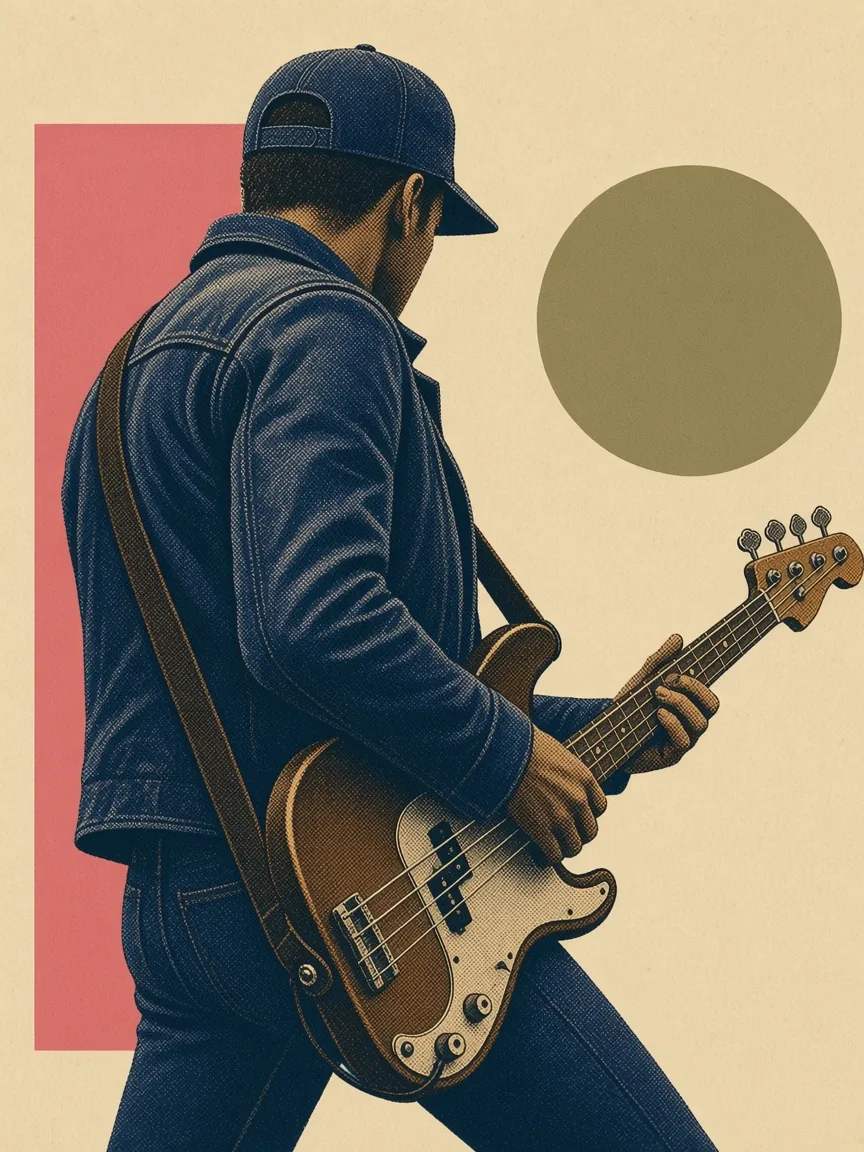
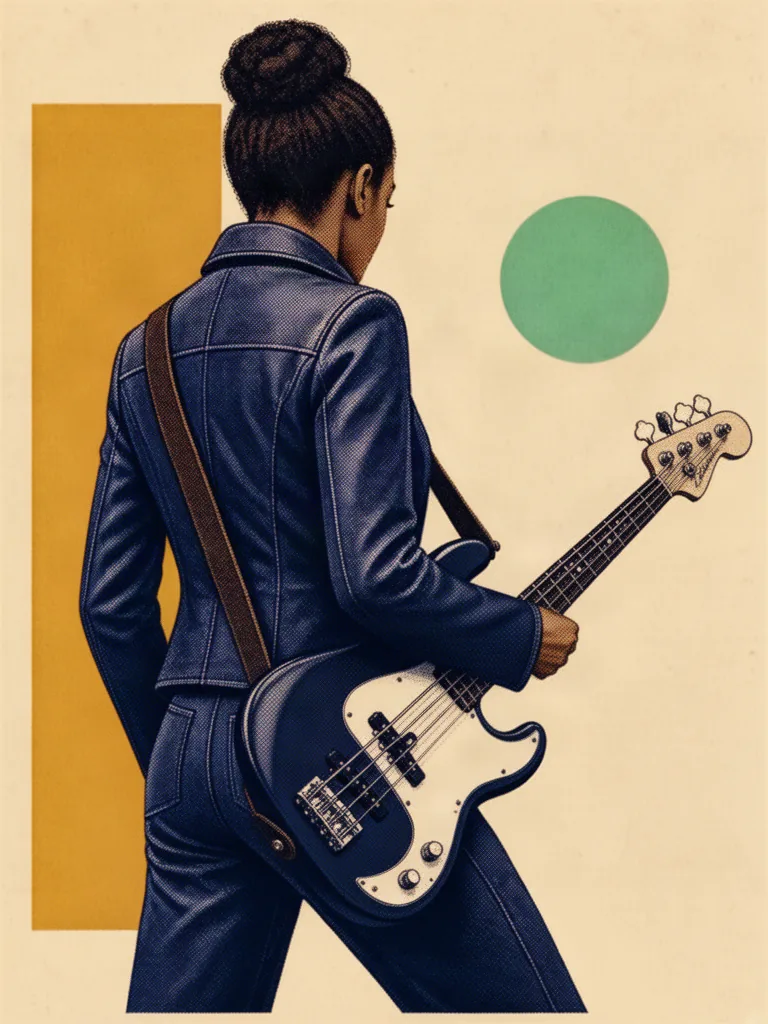
Publie le client de Charts.

diff --git a/prototypes/booster.html b/prototypes/booster.html
@@ -2169,7 +2169,7 @@ function renderCard(card, opts={}){
   const cls = `card r${tier.rank}${paper?" paper":""}${diamant?" diamant":""}${opts.zoomable===false?"":" zoomable"}`;
   const info = `${fam.label} · ${instrumentLabel(card)} · ${group}`;
   return `<div class="${cls}" tabindex="${opts.zoomable===false?"-1":"0"}" data-idx="${opts.idx ?? ""}">
-    <div class="art"><img src="../out/illustrations/webp/${esc(card.job)}.webp?v=3" alt="" loading="lazy" onerror="this.onerror=function(){this.onerror=null;var m=this.src.replace('_x.webp','_m.webp');if(m!==this.src)this.src=m;};var s=this.src,n=s.indexOf('_B_')>=0?s.replace('_B_','_A_'):s.replace('_A_','_B_');if(n!==s)this.src=n;else{this.onerror=null;var m=s.replace('_x.webp','_m.webp');if(m!==s)this.src=m;}"></div>
+    <div class="art"><img src="../out/illustrations/webp/${esc(card.job)}.webp?v=5" alt="" loading="lazy" onerror="this.onerror=function(){this.onerror=null;var m=this.src.replace('_x.webp','_m.webp');if(m!==this.src)this.src=m;};var s=this.src,n=s.indexOf('_B_')>=0?s.replace('_B_','_A_'):s.replace('_A_','_B_');if(n!==s)this.src=n;else{this.onerror=null;var m=s.replace('_x.webp','_m.webp');if(m!==s)this.src=m;}"></div>
     ${diamant ? `<div class="title"><div class="myth-name" style="font-size:${mythName}px">${esc(card.name)}</div></div>` : ""}
     <div class="band" style="${bandStyle}">
       <div class="accent" style="background:${fam.a1}"></div>
@@ -4112,7 +4112,7 @@ function preload(cards){
   return Promise.all(cards.map(c => new Promise(res => {
     const img = new Image();
     img.onload = img.onerror = res;
-    img.src = `../out/illustrations/webp/${c.job}.webp?v=3`;
+    img.src = `../out/illustrations/webp/${c.job}.webp?v=5`;
     if(img.complete) res();
   })));
 }

diff --git a/prototypes/cartes.html b/prototypes/cartes.html
@@ -303,7 +303,7 @@ function renderCard(card, opts={}){
   const mythName = n > 16 ? 22 : n > 13 ? 26 : n > 10 ? 30 : 34;
   return `<div class="${cls}" tabindex="${opts.zoomable===false?"-1":"0"}" data-name="${card.name}">
     <div class="art">
-      <img src="../out/illustrations/webp/${card.job}.webp?v=3" alt="" onerror="this.onerror=function(){this.onerror=null;var m=this.src.replace('_x.webp','_m.webp');if(m!==this.src)this.src=m;};var s=this.src,n=s.indexOf('_B_')>=0?s.replace('_B_','_A_'):s.replace('_A_','_B_');if(n!==s)this.src=n;else{this.onerror=null;var m=s.replace('_x.webp','_m.webp');if(m!==s)this.src=m;}">
+      <img src="../out/illustrations/webp/${card.job}.webp?v=5" alt="" onerror="this.onerror=function(){this.onerror=null;var m=this.src.replace('_x.webp','_m.webp');if(m!==this.src)this.src=m;};var s=this.src,n=s.indexOf('_B_')>=0?s.replace('_B_','_A_'):s.replace('_A_','_B_');if(n!==s)this.src=n;else{this.onerror=null;var m=s.replace('_x.webp','_m.webp');if(m!==s)this.src=m;}">
     </div>
     ${mythique ? `<div class="title"><div class="myth-name" style="font-size:${mythName}px">${card.name}</div></div>` : ""}
     <div class="band" style="${bandStyle}">

diff --git a/prototypes/fantasy-lineup.html b/prototypes/fantasy-lineup.html
@@ -1212,7 +1212,7 @@ function renderCard(card){
   const cls = `card r${tier.rank}${paper ? " paper" : ""}${diamant ? " diamant" : ""}`;
   const info = `${fam.label} · ${instrumentLabel(card)} · ${group}`;
   return `<div class="${cls}" data-id="${esc(card.id)}">
-    <div class="art"><img src="../out/illustrations/webp/${esc(card.job)}.webp?v=3" alt="" loading="lazy"></div>
+    <div class="art"><img src="../out/illustrations/webp/${esc(card.job)}.webp?v=5" alt="" loading="lazy"></div>
     ${diamant ? `<div class="title"><div class="myth-name" style="font-size:${mythName}px">${esc(card.name)}</div></div>` : ""}
     <div class="band" style="${bandStyle}">
       <div class="accent" style="background:${fam.a1}"></div>

diff --git a/prototypes/fantasy.html b/prototypes/fantasy.html
@@ -655,7 +655,7 @@ function renderCard(card){
   const cls = `card r${tier.rank}${paper ? " paper" : ""}${diamant ? " diamant" : ""}`;
   const info = `${fam.label} · ${instrumentLabel(card)} · ${group}`;
   return `<div class="${cls}" data-id="${esc(card.id)}">
-    <div class="art"><img src="../out/illustrations/webp/${esc(card.job)}.webp?v=3" alt="" loading="lazy"></div>
+    <div class="art"><img src="../out/illustrations/webp/${esc(card.job)}.webp?v=5" alt="" loading="lazy"></div>
     ${diamant ? `<div class="title"><div class="myth-name" style="font-size:${mythName}px">${esc(card.name)}</div></div>` : ""}
     <div class="band" style="${bandStyle}">
       <div class="accent" style="background:${fam.a1}"></div>

diff --git a/prototypes/classeur.html b/prototypes/classeur.html
@@ -1104,7 +1104,7 @@ function switchUser(nextId){
 
 const plateSrc = new Map();
 function plateUrl(job){
-  const url = `../out/illustrations/webp/${job}.webp?v=3`;
+  const url = `../out/illustrations/webp/${job}.webp?v=5`;
   return plateSrc.get(url) || url;
 }
 function imgFallback(el){
